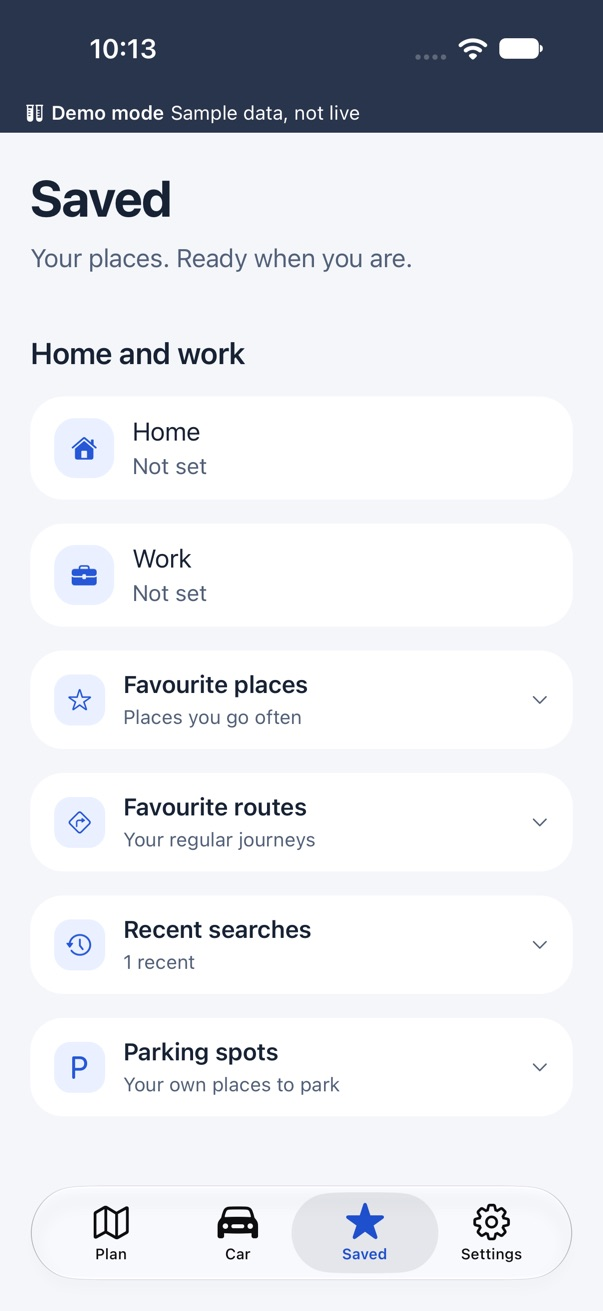
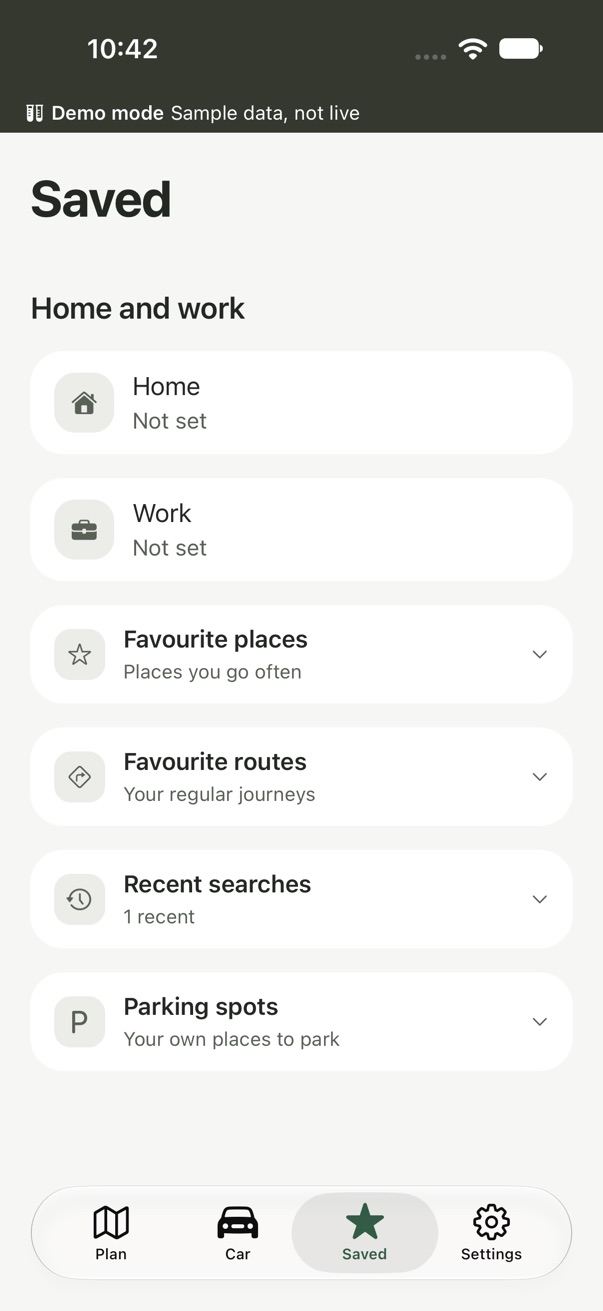
fix: use a neutral app palette

diff --git a/apps/mobile/src/theme/colours.ts b/apps/mobile/src/theme/colours.ts
@@ -40,65 +40,65 @@ export interface ColourTokens {
 }
 
 // Shared with the icon and launch screen (scripts/generate-brand-assets.mjs).
-export const BRAND_COLOUR = '#2557D6';
-export const BRAND_COLOUR_DARK_BACKGROUND = '#13285B';
+export const BRAND_COLOUR = '#3D6650';
+export const BRAND_COLOUR_DARK_BACKGROUND = '#151614';
 
 export const lightColours: ColourTokens = {
-  background: '#F4F6FA',
+  background: '#F6F6F4',
   surface: '#FFFFFF',
-  surfaceMuted: '#EBEFF5',
-  separator: '#DFE5EE',
-  border: '#7C879B',
-  text: '#172234',
-  textSecondary: '#526078',
+  surfaceMuted: '#ECEDE9',
+  separator: '#DFE1DB',
+  border: '#7C837B',
+  text: '#242823',
+  textSecondary: '#596157',
   brand: BRAND_COLOUR,
   onBrand: '#FFFFFF',
-  brandSoft: '#EAF0FF',
-  onBrandSoft: '#2048AD',
+  brandSoft: '#EEF2EB',
+  onBrandSoft: '#31513F',
   danger: '#B42318',
   onDanger: '#FFFFFF',
   dangerSoft: '#FDECEA',
   onDangerSoft: '#8A1C12',
   warningSoft: '#FFF3D1',
   onWarningSoft: '#6B4400',
-  infoSoft: '#E3EEF9',
-  onInfoSoft: '#0D4377',
+  infoSoft: '#EEF0EB',
+  onInfoSoft: '#3D4C3E',
   successSoft: '#E2F2E6',
   onSuccessSoft: '#1C5E31',
-  demo: '#29354C',
+  demo: '#34382F',
   onDemo: '#FFFFFF',
-  skeleton: '#E4E7EC',
+  skeleton: '#E3E5DE',
   markerFill: BRAND_COLOUR,
   onMarker: '#FFFFFF',
   markerRing: '#FFFFFF',
 };
 
 export const darkColours: ColourTokens = {
-  background: '#0D1421',
-  surface: '#172235',
-  surfaceMuted: '#223047',
-  separator: '#2D3C54',
-  border: '#8190A8',
-  text: '#F1F5FC',
-  textSecondary: '#B4C1D5',
-  brand: '#A8C1FF',
-  onBrand: '#112652',
-  brandSoft: '#233960',
-  onBrandSoft: '#CCDCFF',
+  background: '#151614',
+  surface: '#20211E',
+  surfaceMuted: '#2B2D28',
+  separator: '#393C35',
+  border: '#899184',
+  text: '#F0F2EC',
+  textSecondary: '#B8BEB2',
+  brand: '#B8CBB9',
+  onBrand: '#1B2B20',
+  brandSoft: '#2E3B2F',
+  onBrandSoft: '#DAE5D6',
   danger: '#FFB4A9',
   onDanger: '#5C120B',
   dangerSoft: '#3D1714',
   onDangerSoft: '#FFC9C1',
   warningSoft: '#3A2E0C',
   onWarningSoft: '#FFD88A',
-  infoSoft: '#132E4A',
-  onInfoSoft: '#B5D6F7',
+  infoSoft: '#2B3029',
+  onInfoSoft: '#D8E1D2',
   successSoft: '#15321F',
   onSuccessSoft: '#AEE3BC',
-  demo: '#D8E4FC',
-  onDemo: '#172744',
-  skeleton: '#2A2F37',
-  markerFill: '#A8C1FF',
-  onMarker: '#112652',
-  markerRing: '#172235',
+  demo: '#E4E8DF',
+  onDemo: '#242B23',
+  skeleton: '#30332C',
+  markerFill: '#B8CBB9',
+  onMarker: '#1B2B20',
+  markerRing: '#20211E',
 };

diff --git a/apps/mobile/app.config.ts b/apps/mobile/app.config.ts
@@ -7,8 +7,8 @@ const LOCATION_PURPOSE =
   'HopReady uses your location to start trips from where you are, to show where you are on its maps, and to list nearby places first when you search.';
 
 // Matches the continuous-route icon and the in-app brand tokens.
-const SPLASH_BACKGROUND = '#2557D6';
-const SPLASH_BACKGROUND_DARK = '#13285B';
+const SPLASH_BACKGROUND = '#F6F6F4';
+const SPLASH_BACKGROUND_DARK = '#151614';
 
 const DEFAULT_PRIVACY_POLICY_URL = 'https://mehul72.github.io/hopready/privacy/';
 const DEFAULT_SUPPORT_URL = 'https://mehul72.github.io/hopready/support/';
@@ -106,7 +106,10 @@ export default ({ config }: ConfigContext): ExpoConfig => ({
         backgroundColor: SPLASH_BACKGROUND,
         image: './assets/brand/splash-mark.png',
         imageWidth: 160,
-        dark: { backgroundColor: SPLASH_BACKGROUND_DARK },
+        dark: {
+          backgroundColor: SPLASH_BACKGROUND_DARK,
+          image: './assets/brand/splash-mark-dark.png',
+        },
       },
     ],
     'expo-sqlite',

diff --git a/apps/mobile/src/components/empty-state.tsx b/apps/mobile/src/components/empty-state.tsx
@@ -20,8 +20,8 @@ export function EmptyState({ title, message, symbol = 'tray', action, testID }: 
   const { colours } = useTheme();
   return (
     <View style={styles.container} testID={testID}>
-      <View style={[styles.symbol, { backgroundColor: colours.brandSoft }]}>
-        <SymbolView name={symbol} tintColor={colours.brand} size={34} />
+      <View style={[styles.symbol, { backgroundColor: colours.surfaceMuted }]}>
+        <SymbolView name={symbol} tintColor={colours.textSecondary} size={34} />
       </View>
       <View style={styles.texts}>
         <AppText variant="title3" align="center" accessibilityRole="header">

diff --git a/apps/mobile/src/components/disclosure.tsx b/apps/mobile/src/components/disclosure.tsx
@@ -34,8 +34,8 @@ export function Disclosure({
           styles.row,
           pressed ? { backgroundColor: colours.surfaceMuted } : null,
         ]}>
-        <View style={[styles.symbol, { backgroundColor: colours.brandSoft }]}>
-          <SymbolView name={symbol} tintColor={colours.brand} size={18} />
+        <View style={[styles.symbol, { backgroundColor: colours.surfaceMuted }]}>
+          <SymbolView name={symbol} tintColor={colours.textSecondary} size={18} />
         </View>
         <View style={styles.texts}>
           <AppText variant="callout" weight="semibold">

diff --git a/apps/mobile/src/components/list-row.tsx b/apps/mobile/src/components/list-row.tsx
@@ -48,11 +48,11 @@ export function ListRow({
         <View
           style={[
             styles.symbol,
-            { backgroundColor: destructive ? colours.dangerSoft : colours.brandSoft },
+            { backgroundColor: destructive ? colours.dangerSoft : colours.surfaceMuted },
           ]}>
           <SymbolView
             name={leadingSymbol}
-            tintColor={destructive ? colours.danger : colours.brand}
+            tintColor={destructive ? colours.danger : colours.textSecondary}
             size={18}
           />
         </View>

diff --git a/apps/mobile/src/features/saved/saved-item-row.tsx b/apps/mobile/src/features/saved/saved-item-row.tsx
@@ -36,8 +36,8 @@ export function SavedItemRow({
   const label = [title, subtitle].filter(Boolean).join(', ');
   const content = (
     <>
-      <View style={[styles.symbol, { backgroundColor: colours.brandSoft }]}>
-        <SymbolView name={symbol} tintColor={colours.brand} size={20} />
+      <View style={[styles.symbol, { backgroundColor: colours.surfaceMuted }]}>
+        <SymbolView name={symbol} tintColor={colours.textSecondary} size={20} />
       </View>
       <View style={styles.texts}>
         <AppText>{title}</AppText>

diff --git a/apps/mobile/src/features/plan/plan-screen.tsx b/apps/mobile/src/features/plan/plan-screen.tsx
@@ -6,7 +6,6 @@ import { AccessibilityInfo, Alert, StyleSheet, View } from 'react-native';
 import {
   AppText,
   Banner,
-  BrandSignature,
   Button,
   Card,
   Disclosure,
@@ -196,8 +195,7 @@ export function PlanScreen() {
 
   return (
     <Screen testID="plan-screen">
-      <BrandSignature />
-      <PageHeading title="Where to?" subtitle="Your journey, from door to door." />
+      <PageHeading title="Where to?" />
       <FollowedTripCard now={now} />
       <PlaceFields
         origin={draft.origin}

diff --git a/apps/mobile/src/features/parked-car/car-screen.tsx b/apps/mobile/src/features/parked-car/car-screen.tsx
@@ -115,7 +115,7 @@ export function CarScreen() {
   const parkedCar = useParkedCar();
   return (
     <Screen testID="car-screen">
-      <PageHeading title="Your car" subtitle="A place to park. A way back home." />
+      <PageHeading title="Your car" />
       {parkedCar.status === 'parked' ? <ParkedCarView state={parkedCar} /> : null}
       {parkedCar.status === 'dropped-off' ? <DroppedOffView state={parkedCar} /> : null}
       {parkedCar.status === 'none' ? (

diff --git a/apps/mobile/src/features/results/route-card.tsx b/apps/mobile/src/features/results/route-card.tsx
@@ -165,7 +165,7 @@ export function RouteCard({
           <AppText variant="title2" tabularNumbers style={styles.shrink}>
             {`${times.leave.text} → ${times.arrive.text}`}
           </AppText>
-          <AppText variant="title2" tone="brand" tabularNumbers>
+          <AppText variant="headline" tabularNumbers>
             {facts.total.text}
           </AppText>
         </View>

diff --git a/apps/mobile/src/features/settings/settings-screen.tsx b/apps/mobile/src/features/settings/settings-screen.tsx
@@ -10,7 +10,7 @@ import { TripOptionsSection } from './trip-options-section';
 export function SettingsScreen() {
   return (
     <Screen testID="settings-screen">
-      <PageHeading title="Settings" subtitle="Make the journey yours." />
+      <PageHeading title="Settings" />
       <TripOptionsSection />
       <NavigationAppSection />
       <DemoModeSection />

diff --git a/apps/mobile/src/features/saved/saved-screen.tsx b/apps/mobile/src/features/saved/saved-screen.tsx
@@ -187,7 +187,7 @@ export function SavedScreen() {
 
   return (
     <Screen testID="saved-screen">
-      <PageHeading title="Saved" subtitle="Your places. Ready when you are." />
+      <PageHeading title="Saved" />
       {noticeFor('home', 'work')}
       {planner.locating ? <Banner tone="info" message="Finding your location…" /> : null}
 

diff --git a/docs/plans/neutral-appearance.md b/docs/plans/neutral-appearance.md
@@ -1,0 +1,39 @@
+# Plan: neutral appearance
+
+Status: in progress
+Branch: feat/rebrand
+
+## Goal
+
+Replace the blue-dominated rebrand with a quiet, neutral interface, preserve discoverable controls and all trip functionality, and deliver the correction through the existing TestFlight release process.
+
+## Decisions
+
+- White and soft grey surfaces in light mode; neutral charcoal in dark mode, following the phone's appearance.
+- Muted green is a small action accent. Everyday menu icons and surfaces stay neutral.
+- Keep the route mark, recoloured on an off-white icon. Use a light launch background and a charcoal dark launch background.
+- Remove decorative taglines and the Plan screen's extra branding row.
+- Existing permission to commit, push and publish TestFlight continues for this correction.
+
+## Out of scope
+
+Routing, storage, API, permission and consent behaviour, navigation structure and tester access.
+
+## Steps
+
+- [x] 1. Update theme, artwork, launch assets and visual hierarchy.
+      done when: contrast checks, typecheck, lint and existing tests pass; artwork inspected.
+- [x] 2. Inspect the main screens in light mode and the accessible planner in dark mode.
+      done when: native build and both capture journeys pass, screenshots inspected and refreshed.
+- [ ] 3. Commit, push and publish the corrected build.
+      done when: CI passes and Apple reports the new build valid and in internal beta testing.
+
+## Log
+
+- 2026-11-01: Both native capture journeys passed. Inspected the light-mode planner, results and settings, and dark-mode controls at maximum text size. Refreshed the nine main screenshots and four accessibility captures.
+
+- 2026-11-01: Neutral artwork inspected, icon verified opaque, complete `pnpm check` passed and the native build succeeded. Launch assets include a pale mark for charcoal appearance.
+
+- 2026-11-01: Full checks passed with the neutral palette (1,385 tests). Native icon compilation requires the translucency value even when the effect is disabled; retained an explicit zero value and reran the native build.
+
+- 2026-11-01: The user rejected the dominant blue and navy surfaces. This revision removes that direction, including the icon and splash treatment, instead of replacing it with another coloured background.
